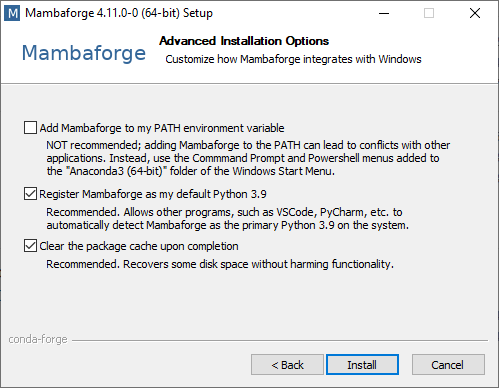
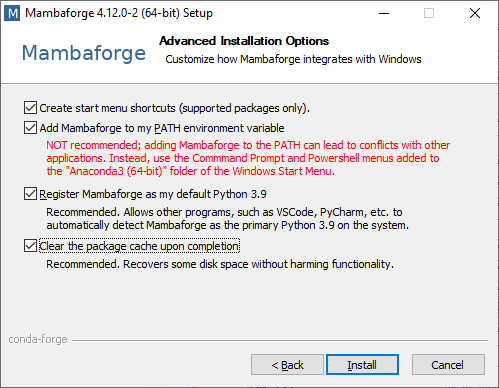
Tilføj beskrivelse af, hvordan man tilføjer mamba-værktøj til Path, så mamba virker i en vilkårlig terminal. (#12)

diff --git a/source/setup.rst b/source/setup.rst
@@ -35,12 +35,19 @@ er også at finde herunder i afsnittet :ref:`fuld_vejledning`.
 Hurtigruten
 ------------
 
-* Download `Mamba installationsprogrammet`_
-* Kør installationsprogrammet og klik dig gennem de enkelte skridt, vælg undervejs at
-    * Installere "just for me"
-    * Placere filerne under ``C:\Users\<brugernavn>\AppData\Local\mambaforge``
-    * "Register Mambaforge as my default Python"
-    * "Clear the package cache upon completion"
+*   Download `Mamba installationsprogrammet`_
+*   Kør installationsprogrammet og gennemgå de enkelte skridt med følgende
+    valgmuligheder:
+
+    *   Installér "just for me"
+    *   Placere filerne under ``C:\Users\<brugernavn>\AppData\Local\mambaforge``
+    *   "Register Mambaforge as my default Python"
+    *   Tilvælg "Add MambaForge to my PATH environment variable"
+    *   "Clear the package cache upon completion"
+
+Når du har tilføj dernæst følgende stier til din lokal ``PATH`` miljø-variabel,
+kan du i en shell-terminal og i dit integrerede udviklingsmiljø kan bruge
+kommandoen ``mamba`` uden at angive den komplette sti til programmet:
 
 
 .. _fuld_vejledning:
@@ -86,14 +93,18 @@ standardiseret placering som bør følges. Tryk næste.
     *Installationsplacering*
 
 Sidste skridt i installationen er at tage stilling til avancerede
-indstillinger. Vi følger de anbefalede valgmuligheder:
+indstillinger. Vi følger de anbefalede valgmuligheder bortset fra,
+at vi gerne vil kunne tilgå `mamba` fra enhver terminal, herunder
+også i en IDE som VS Code. Sæt derfor følgende og lad resten være
+som det var i udgangspunktet:
 
+* Tilføj MambaForge-stier til din brugers lokale ``PATH``-miljøvariabel
 * Registrér Mambaforge som default Python installation
 * Ryd cache efter installation
 
-Førstnævnte er det bedste valg for de fleste. Hvis det **ikke** er det bedste
-valg for dig ved du det godt og kan med fordel vælge anderledes. Alle andre bør
-følge anbefalingen her.
+Miljøvariablen ``PATH`` kan tilpasses senere, hvis det er nødvendigt
+at rette eller slette stierne. Se :ref:`nedenfor <setup_edit_path>`,
+hvordan dette gøres.
 
 .. figure:: ./images/mamba-install-05.png
     :align: center
@@ -102,6 +113,7 @@ følge anbefalingen her.
     *Avancerede installationsvalg*
 
 Afvent at installationsprogrammet kører færdig.
+
 
 Demonstration
 --------------
@@ -286,6 +298,60 @@ Herefter kan vi aktivere det nye miljø
     (sdfipython) C:\>
 
 Bemærk at der nu står ``sdfipython`` i parantesen før stien.
+
+
+.. _setup_edit_path:
+
+Håndtering af MambaForge-stier i din lokale PATH-miljøvariabel
+--------------------------------------------------------------
+
+Med installationsvalgene ovenfor får din lokale ``PATH``-miljøvariabel
+føjet følgende stier til foran de eksisterende stier:
+
+    .. code-block:: none
+
+        %LocalAppData%\mambaforge
+        %LocalAppData%\mambaforge\Library\mingw-w64\bin
+        %LocalAppData%\mambaforge\Library\usr\bin
+        %LocalAppData%\mambaforge\Library\bin
+        %LocalAppData%\mambaforge\Scripts
+
+Med disse stier sat kan du nu aktivere miljøer i en ny terminal,
+eksempelvis ``cmd.exe``, og en IDE som Visual Studio Code kan sende
+aktiveringskommandoen for et givet miljø i de nye terminal-vinduer,
+du åbner igennem programmet (PowerShell, CMD, Git Bash, CMDer, etc.).
+
+Fordelen ved dette er altså, at ``mamba`` og andre programmer, der ligger
+på disse placeringer, nu er tilgængelige for alle terminaler, herunder
+også dén terminal, du bruger i dit :ref:`integrerede udviklingsmiljø <værktøjer>`.
+
+Ønsker du at rette eller fjerne disse stier igen, kan du tilgå dine
+miljøvariable på følgende måde:
+
+*   Åbn kontrolpanel-funktionen "Rediger miljøvariabler for din konto"
+    fra Windows-startmenu:
+
+    .. figure:: ./images/env-run-search-user-env.png
+        :align: center
+        :alt:   Fremsøg dialog-vindue til at ændre miljø-variable for brugerkontoen.
+
+        *Fremsøg dialog-vindue til at ændre miljø-variable for brugerkontoen.*
+
+*   Vælg redigér **Path** [sic]:
+
+    .. figure:: ./images/env-user-env-vars.png
+        :align: center
+        :alt:   Oversigt over miljø-variable for brugeren og på tværs af brugere [systemvariable].
+
+        *Oversigt over miljø-variable for brugeren og på tværs af brugere [systemvariable].*
+
+*   Se, ret eller fjern de stier, du ønsker:
+
+    .. figure:: ./images/env-user-env-var-path-edit.png
+        :align: center
+        :alt:   Tilføjede stier til PATH, som er nødvendige for, at shell og IDE kender stien til mamba.
+
+        *Tilføjede stier til PATH, som er nødvendige for, at shell og IDE kender stien til mamba.*
 
 
 
